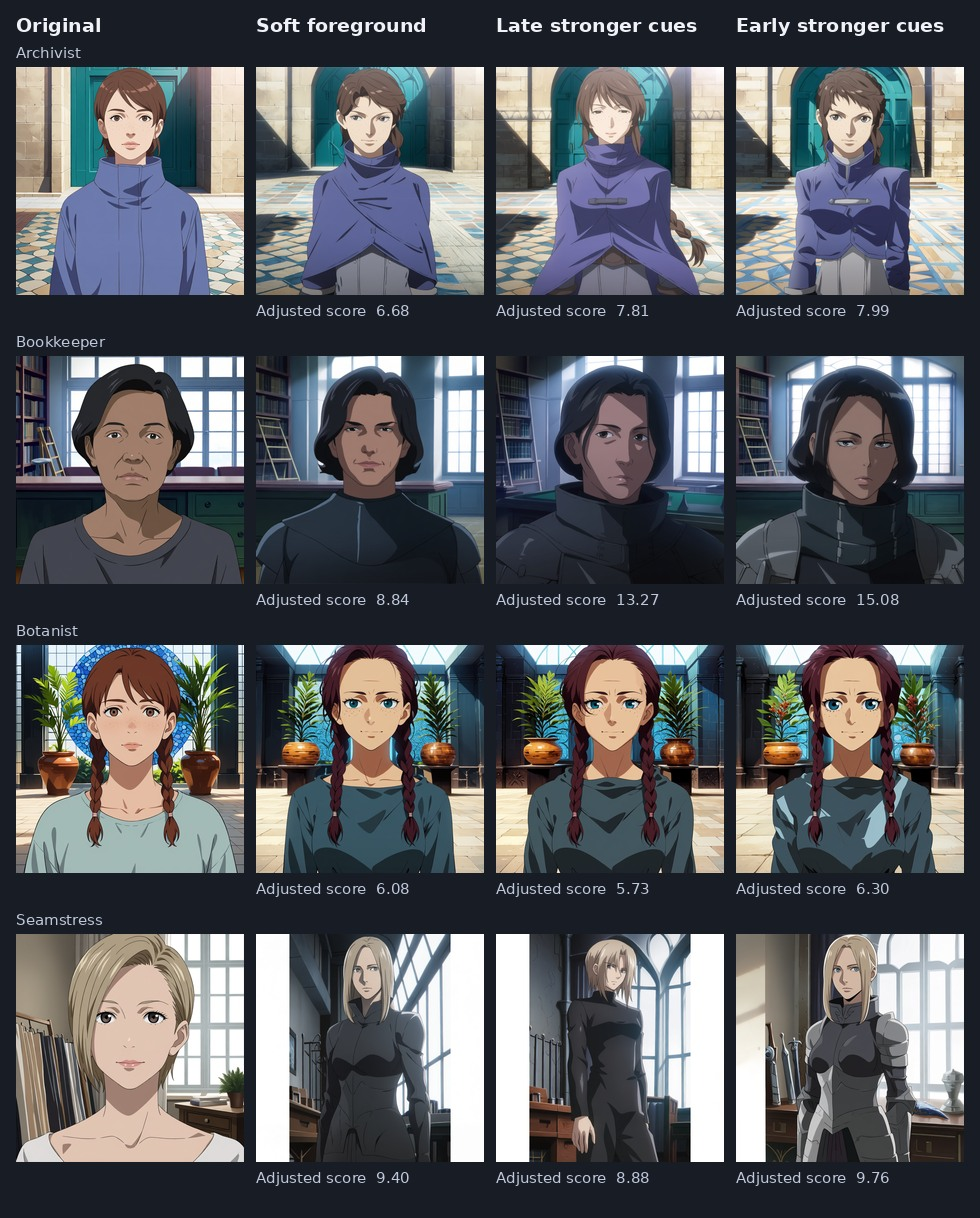
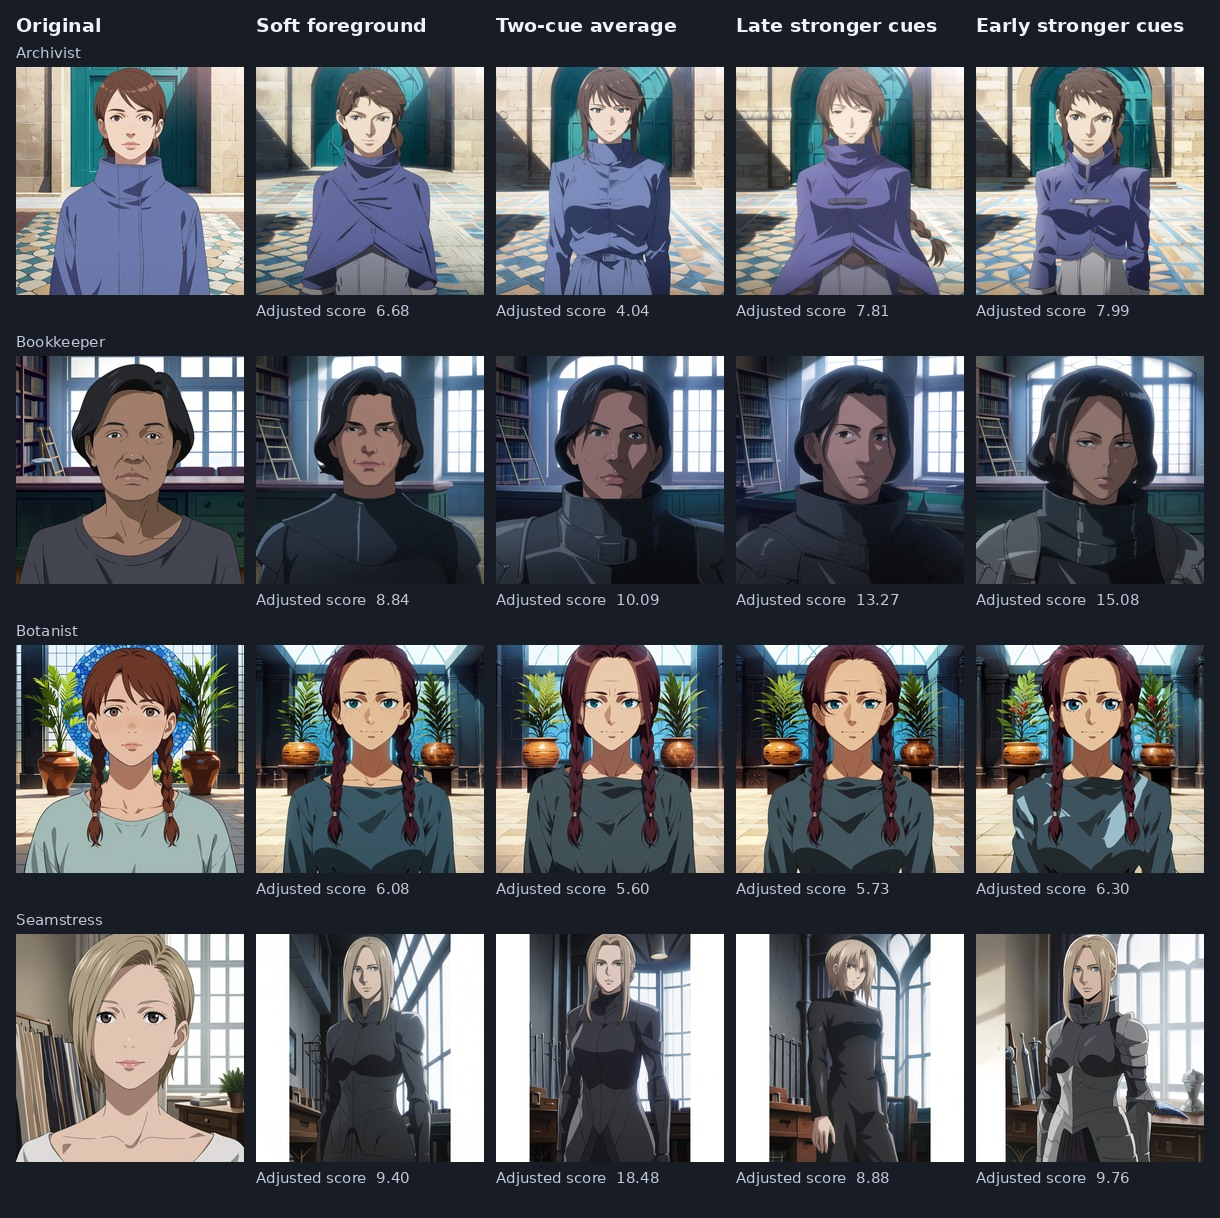
Rank completed early cues and compare all update-144 renders

diff --git a/docs/leaderboard.md b/docs/leaderboard.md
@@ -8,7 +8,7 @@
 
 **What earns a high score.** The slider should make the subject visibly read as a Final Boss while keeping the image coherent. An edit with zero Boss gain scores zero. Visible damage lowers the score even when the Boss effect is strong. [Scoring and comparison protocol](#comparing-a-new-run) · [Jev rubrics](final-boss-raw192/rubrics.json)
 
-**Latest challengers.** Averaging two alternate cue directions led the four-case update-96 preview. Stronger cues at the final three teacher positions finished at **21.20** on the eight-case RAW192 panel. Stronger cues at the first three positions are training. [Update-96 results](#update-96-preview) · [Completed late-cue comparison](#late-cues-at-update-192)
+**Latest challengers.** The two-cue average led the update-96 preview and is training toward RAW192. Early and late cue timing finished below the shared early leader. The next run uses four qualified costume teachers and two soft-foreground contexts. [Update-144 results](#update-144-preview) · [Completed early-cue comparison](#early-cues-at-update-192) · [Qualified teacher targets](#qualified-teacher-targets)
 
 ## Training techniques
 
@@ -21,8 +21,9 @@ The ranking uses the best measured variant of each technique after 192 updates w
 | 3 | Paired scene and lighting contexts, 50% blend, 0.65 floor | 22.23 | 11.58 | [Concept Sliders](https://www.ecva.net/papers/eccv_2024/papers_ECCV/papers/05660.pdf), related [contrast isolation #216](https://github.com/HyperGAN/particle-sliders/pull/216) |
 | 4 | Background-only scene and lighting projection, 0.45 floor | 22.22 | 11.51 | Local Anima adaptation of [nuisance deflation #254](https://github.com/HyperGAN/particle-sliders/pull/254) |
 | 5 | Stronger cues at the final three teacher positions | 21.20 | 10.41 | [Teacher timing adaptation and matched renders](#late-cues-at-update-192) |
-| 6 | Whole-image scene and lighting projection, 0.65 floor | 18.74 | 13.72 | Local Anima adaptation of [nuisance deflation #254](https://github.com/HyperGAN/particle-sliders/pull/254) |
-| 7 | Train on adapter rollout states, 0.45 floor | 11.61 | 5.49 | Local Anima experiment, related [rollout protocol #246](https://github.com/HyperGAN/particle-sliders/pull/246) |
+| 6 | Stronger cues at the first three teacher positions | 20.32 | 14.99 | [Teacher timing adaptation and matched renders](#early-cues-at-update-192) |
+| 7 | Whole-image scene and lighting projection, 0.65 floor | 18.74 | 13.72 | Local Anima adaptation of [nuisance deflation #254](https://github.com/HyperGAN/particle-sliders/pull/254) |
+| 8 | Train on adapter rollout states, 0.45 floor | 11.61 | 5.49 | Local Anima experiment, related [rollout protocol #246](https://github.com/HyperGAN/particle-sliders/pull/246) |
 
 The prompt-only control scored **18.32** at shared early strength. Its constant result is unmeasured. The 35% cue blend gained **3.84 points** at constant strength over the default training recipe. It improved seven of eight matched cases at constant strength and one of eight at early strength. The 85% cue blend scored lower at both shared strengths. Each technique used one initialization seed. [All runs and per-case scores](final-boss-raw192/results.json)
 
@@ -46,19 +47,23 @@ Each cue-timing recipe replaces 36 of the 120 teacher fields. The replacement mo
 
 ## Update-144 preview
 
-At shared early α 2/3, early cues scored **9.78**, late cues **8.92**, and soft foreground weighting **7.75**. All three passed the four structural checks. Early cues led on all four cases, with most of the gain over soft foreground weighting coming from bookkeeper. Mean Boss distinction gain was **+0.200** for early cues, **+0.183** for late cues, and **+0.168** for soft foreground weighting. [Matched originals and renders](final-boss-raw192/ablations/cue-timing-raw144-matched.jpg) · [Per-case scores](final-boss-raw192/ablations/cue-timing-raw144-scores.json)
+At shared early α 2/3, early cues scored **9.78**, the two-cue average **9.55**, late cues **8.92**, and soft foreground weighting **7.75**. All four passed the structural checks. Early cues led on three cases. The two-cue average led on seamstress and tied early cues for mean Boss distinction gain (**+0.200**). Its higher mean damage (**0.329** versus **0.289**) contributed to a lower adjusted score. [Matched originals and renders](final-boss-raw192/ablations/cue-timing-raw144-matched.jpg) · [Per-case scores](final-boss-raw192/ablations/cue-timing-raw144-scores.json)
 
-The quarter-check question gave mean gains of **+0.513** for early cues, **+0.453** for late cues, and **+0.401** for soft foreground weighting.
+The quarter-check question gave mean gains of **+0.513** for early cues, **+0.497** for the two-cue average, **+0.453** for late cues, and **+0.401** for soft foreground weighting.
 
 ## Late cues at update 192
 
 The late-cue recipe used the 35% stronger-cue teacher at the final three denoising positions and retained the soft-foreground teacher at the other seven. It completed 192 updates and passed the structural checks at both shared strengths. At early α 2/3 it finished **4.46 points** behind soft foreground weighting. It had weaker mean Boss distinction gain (**+0.358** versus **+0.423**) and more visible damage (**0.233** versus **0.214**). Stationer, guide, and violinist favored late cues. Ranger, ferryman, and guard accounted for most of the decline. [Eight matched renders](final-boss-raw192/ablations/late-cues-raw192-matched.jpg) · [Both strengths and per-case scores](final-boss-raw192/ablations/late-cues-raw192-scores.json) · [Training source and commands](final-boss-raw192/README.md#source-for-the-trained-targets) · [Timing research](https://arxiv.org/abs/2512.08486)
 
+## Early cues at update 192
+
+The early-cue recipe used the same 35% blend at the first three denoising positions. It completed 192 updates and passed the structural checks at both shared strengths. At early α 2/3 it scored **20.32**, with Boss distinction gain of **+0.409** and mean damage of **0.288**. Compared with soft foreground weighting, **4.73** of the **5.34** lost points came from the damage term using the same per-case decomposition as above. Stationer improved, and watchmaker lost the most. At constant strength early cues scored **14.99**, between soft foreground weighting at **13.06** and full-trajectory stronger cues at **16.90**. [Eight matched renders](final-boss-raw192/ablations/early-cues-raw192-matched.jpg) · [Both strengths and per-case scores](final-boss-raw192/ablations/early-cues-raw192-scores.json) · [Training source and commands](final-boss-raw192/README.md#source-for-the-trained-targets)
+
 ## Qualified teacher targets
 
 On eight archived teacher cases, guiding toward a concrete costume more strongly early in denoising scored **29.50–32.38**, versus **26.70** for the same costume prompt at fixed teacher strength. The range covers every possible outcome for one missing damage judgment. These are frozen Anima renders made before adapter training. [Per-case scores and gain schedule](final-boss-raw192/ablations/vibe-teacher-readability.json)
 
-A prepared training recipe pairs all **80** fields from four qualified costume teachers with **40** fields from two original soft-foreground contexts. The original and new recipes each use 120 fields across six contexts. The new recipe changes both the contexts and the teacher guidance. Its planned fit uses 192 stock ParticleGAN updates and the same development comparisons. The timing test draws on observations that text conditioning has different effects across denoising stages. [eDiff-I](https://arxiv.org/abs/2211.01324) · [Prompt-Conditioned Interventions](https://arxiv.org/abs/2512.08486)
+The training recipe pairs all **80** fields from four qualified costume teachers with **40** fields from two original soft-foreground contexts. The original and new recipes each use 120 fields across six contexts. The new recipe changes both the contexts and the teacher guidance. Its 192-update stock ParticleGAN run has started, with the shared development comparisons planned. The timing test draws on observations that text conditioning has different effects across denoising stages. [eDiff-I](https://arxiv.org/abs/2211.01324) · [Prompt-Conditioned Interventions](https://arxiv.org/abs/2512.08486)
 
 ## Structural stops
 
